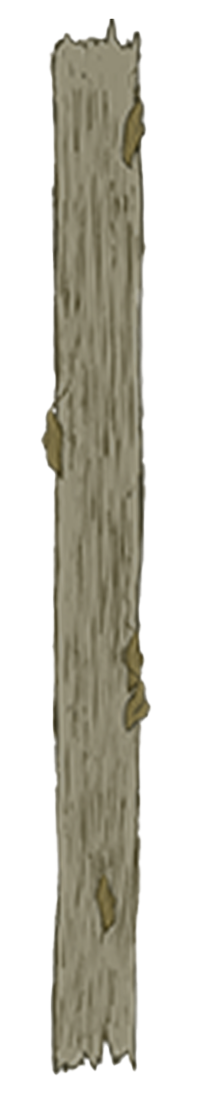
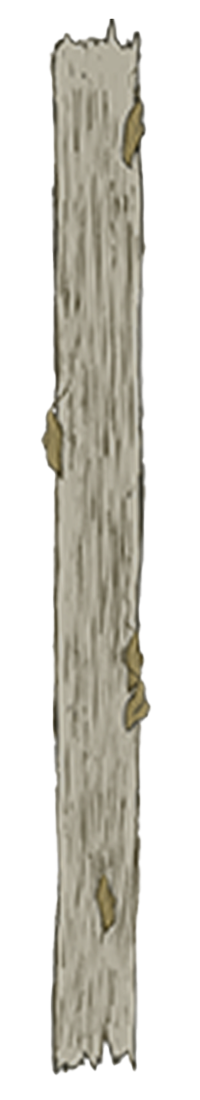
画像の差し替えと落ちる足場
画像を差し替えました。
落ちる足場が落ちる前に揺れるようになりました

diff --git a/Assets/01_GameData/Scripts/Gimmick/Stage2/Stage/FallingPlatforms.cs b/Assets/01_GameData/Scripts/Gimmick/Stage2/Stage/FallingPlatforms.cs
@@ -4,21 +4,24 @@ using System.Collections;
 public class FallingPlatforms : MonoBehaviour
 {
     [SerializeField] private float fallStartDelay = 0.5f;
-    [SerializeField] private float fallDuration = 2f;   // 落ち続ける時間
-    [SerializeField] private float returnDelay = 1f;    // 元の位置に戻るまでの待ち時間
-    [SerializeField] private float fallSpeed = 5f;      // 落下スピード
+    [SerializeField] private float fallDuration = 2f;
+    [SerializeField] private float returnDelay = 1f;
+    [SerializeField] private float fallSpeed = 5f;
+
+    [Header("揺れ設定")]
+    [SerializeField] private float shakeDuration = 0.5f;
+    [SerializeField] private float shakeAmount = 0.1f;
+    [SerializeField] private float shakeSpeed = 20f;
 
     private bool hasTriggered = false;
     private Rigidbody2D rb;
 
-    private Vector3 originalPos;       // 元の位置
-    private Quaternion originalRot;    // 元の角度
+    private Vector3 originalPos;
+    private Quaternion originalRot;
 
     private void Start()
     {
         rb = GetComponent<Rigidbody2D>();
-
-        // 最初の位置と角度を保存
         originalPos = transform.position;
         originalRot = transform.rotation;
     }
@@ -37,11 +40,28 @@ public class FallingPlatforms : MonoBehaviour
 
     private IEnumerator FallRoutine()
     {
+        // ★ まずは何もせず待つ（落ちる前の間）
         yield return new WaitForSeconds(fallStartDelay);
 
-        // 落下開始
-        float time = 0f;
+        // ★ 落ちる直前に揺れる
+        float shakeTimer = 0f;
+        Vector3 basePos = originalPos;
 
+        while (shakeTimer < shakeDuration)
+        {
+            shakeTimer += Time.deltaTime;
+
+            float shake = Mathf.Sin(Time.time * shakeSpeed) * shakeAmount;
+            transform.position = basePos + new Vector3(shake, 0, 0);
+
+            yield return null;
+        }
+
+        // 揺れ終わったら位置を戻す
+        transform.position = basePos;
+
+        // ★ 落下開始
+        float time = 0f;
         while (time < fallDuration)
         {
             transform.position += Vector3.down * fallSpeed * Time.deltaTime;
@@ -49,17 +69,16 @@ public class FallingPlatforms : MonoBehaviour
             yield return null;
         }
 
-        // 落ちた後、少し待つ
+        // 落下後の待機
         yield return new WaitForSeconds(returnDelay);
 
-        // 元の位置に戻す
+        // ★ 元の位置に戻す
         rb.linearVelocity = Vector2.zero;
         rb.angularVelocity = 0f;
 
         transform.position = originalPos;
         transform.rotation = originalRot;
 
-        // 次にまた踏んだら落ちるようにする
         hasTriggered = false;
     }
 }
